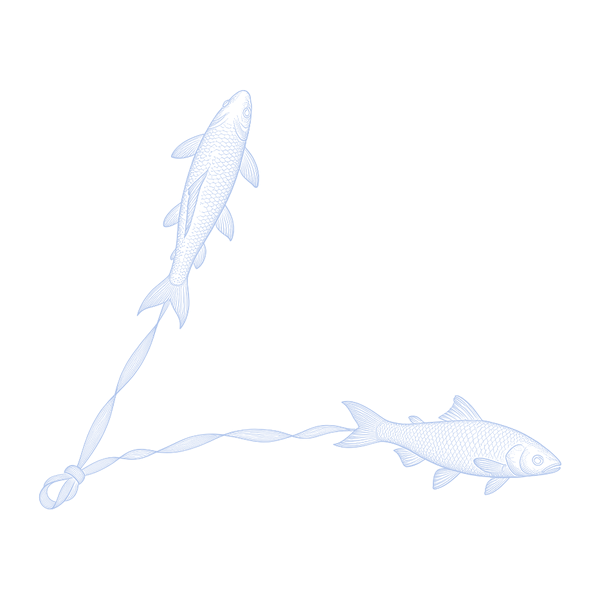
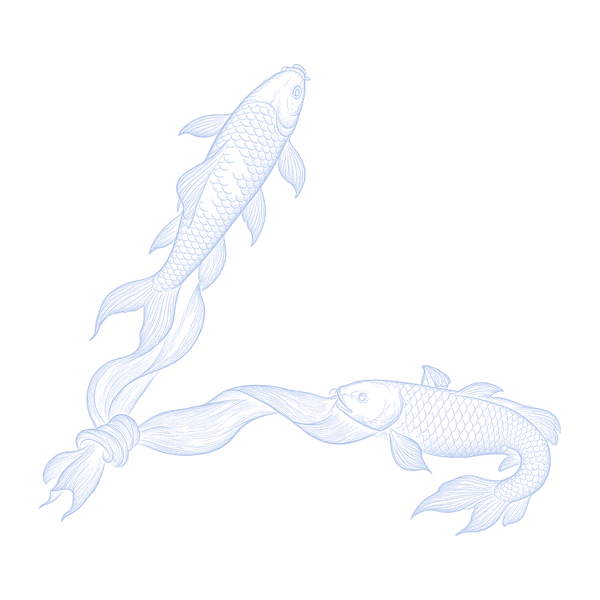
Aggiorna cielo-nascita/cielo-A7.html (A7b: Toro e Pesci rifatti, corna su Elnath e zeta Tau, pesci piu grandi sulla catena reale; altre 10 figure invariate)

Changed region(s): [[0.06, 0.09, 0.93, 0.9]]

diff --git a/cielo-nascita/cielo-A7.html b/cielo-nascita/cielo-A7.html
@@ -2615,7 +2615,7 @@ Vedi tutto
 <a class="c2-again" href="#cielo"><svg aria-hidden="true" focusable="false" class="ci" fill="currentColor" xmlns="http://www.w3.org/2000/svg" viewBox="0 -960 960 960"><path d="M450-180v-485.08L222.15-437.23 180-480l300-300 300 300-42.15 42.77L510-665.08V-180h-60Z"/></svg>Cambia data</a></div>
 </div>
 </div>
-</section><script>(()=>{const DATA={"mesi": ["gennaio", "febbraio", "marzo", "aprile", "maggio", "giugno", "luglio", "agosto", "settembre", "ottobre", "novembre", "dicembre"], "max": [31, 29, 31, 30, 31, 30, 31, 31, 30, 31, 30, 31], "m": [{"s": "Granato", "note": "Il granato è nel bracciale; accanto, il diaspro rosso, dello stesso colore.", "st": {"h": "pietre-burattate-diaspro-rosso", "name": "Diaspro rosso burattato", "price": 450, "img": "https://cdn.shopify.com/s/files/1/0917/9719/3042/files/IMG-7132.jpg?v=1788862069&width=480"}, "j": {"h": "bracciale-granato-quarzo-rosa-cuore", "name": "Bracciale con granato", "price": 1590, "img": "https://cdn.shopify.com/s/files/1/0917/9719/3042/files/Braccialetto_Granato_e_Quarzo_Rosa_con_Ciondolo_Cuore.jpg?v=1768234394&width=480"}}, {"s": "Ametista", "note": "", "st": {"h": "pietre-burattate-ametista-1", "name": "Ametista burattata", "price": 600, "img": "https://cdn.shopify.com/s/files/1/0917/9719/3042/files/E8991915-B2F1-49F5-AD6D-E8A4796B5674.jpg?v=1788862194&width=480"}, "j": {"h": "bracciale-ametista-naturale", "name": "Bracciale con ametista", "price": 1390, "img": "https://cdn.shopify.com/s/files/1/0917/9719/3042/files/43782749287.jpg?v=1745532005&width=480"}}, {"s": "Acquamarina", "note": "", "st": {"h": "acquamarina", "name": "Acquamarina grezza", "price": 750, "img": "https://cdn.shopify.com/s/files/1/0917/9719/3042/files/IMG_9830.jpg?v=1794647398&width=480"}, "j": {"h": "ciondolo-in-acquamarina-grezza", "name": "Ciondolo acquamarina", "price": 1050, "img": "https://cdn.shopify.com/s/files/1/0917/9719/3042/files/ciondoloinacquamarinagrezza.jpg?v=1774884303&width=480"}}, {"s": "Diamante", "note": "Ad aprile la tradizione affianca al diamante il cristallo di rocca.", "st": {"h": "pietre-burattate-cristallo-di-rocca", "name": "Cristallo burattato", "price": 450, "img": "https://cdn.shopify.com/s/files/1/0917/9719/3042/files/DB4ED829-B8B2-47A0-AA12-6D8EE8557FD3.jpg?v=1788861895&width=480"}, "j": {"h": "ciondolo-cristallo-di-rocca-grezzo", "name": "Ciondolo cristallo grezzo", "price": 1050, "img": "https://cdn.shopify.com/s/files/1/0917/9719/3042/files/IMG-2047.jpg?v=1756159765&width=480"}}, {"s": "Smeraldo", "note": "Lo smeraldo è nel ciondolo; accanto, l’avventurina verde.", "st": {"h": "pietre-burattate-avventurina", "name": "Avventurina burattata", "price": 550, "img": "https://cdn.shopify.com/s/files/1/0917/9719/3042/files/IMG-7113.jpg?v=1788793965&width=480"}, "j": {"h": "ciondolo-di-smeraldo-forato", "name": "Ciondolo con smeraldo", "price": 850, "img": "https://cdn.shopify.com/s/files/1/0917/9719/3042/files/CiondolodiSmeraldoforato.jpg?v=1787842694&width=480"}}, {"s": "Perla", "note": "A giugno la tradizione affianca alla perla la pietra di luna.", "st": {"h": "pietra-di-luna-arcobaleno-4-varianti-1", "name": "Pietra di luna arcobaleno", "price": 750, "img": "https://cdn.shopify.com/s/files/1/0917/9719/3042/files/IMG-9834.jpg?v=1794647145&width=480"}, "j": {"h": "braccialetto-pierre-de-lune-blanche", "name": "Bracciale pietra di luna", "price": 1790, "img": "https://cdn.shopify.com/s/files/1/0917/9719/3042/files/FullSizeRender_fd7ccc5c-9ca2-4b72-9071-e6c792b285d0.jpg?v=1773057115&width=480"}}, {"s": "Rubino", "note": "A luglio la tradizione affianca al rubino la corniola.", "st": {"h": "pietre-burattate-corniola", "name": "Corniola burattata", "price": 400, "img": "https://cdn.shopify.com/s/files/1/0917/9719/3042/files/2E89BBA4-E316-4303-B9B9-6043E4D3A820.jpg?v=1788861841&width=480"}, "j": {"h": "braccialetto-con-perle-di-rubino-zoisite", "name": "Bracciale rubino zoisite", "price": 1590, "img": "https://cdn.shopify.com/s/files/1/0917/9719/3042/files/BraccialettoconperlediRubinoZoisite.jpg?v=1783352505&width=480"}}, {"s": "Peridoto", "note": "Nel corredo giada e prehnite, scelte per il verde del peridoto.", "st": {"h": "giada", "name": "Giada grezza", "price": 700, "img": "https://cdn.shopify.com/s/files/1/0917/9719/3042/files/IMG_9826.jpg?v=1794647275&width=480"}, "j": {"h": "braccialetto-prehnite", "name": "Bracciale con prehnite", "price": 1790, "img": "https://cdn.shopify.com/s/files/1/0917/9719/3042/files/FullSizeRender_01ebff7d-15f5-481b-81e1-aa0d47e13556.jpg?v=1786368688&width=480"}}, {"s": "Zaffiro", "note": "Nel corredo la sodalite, scelta per il blu dello zaffiro.", "st": {"h": "pietre-burattate-sodalite", "name": "Sodalite burattata", "price": 700, "img": "https://cdn.shopify.com/s/files/1/0917/9719/3042/files/EDFEFFAF-539B-4D46-8372-2D7EF9ECE5F4.jpg?v=1788862003&width=480"}, "j": {"h": "ciondolo-sodalite-grezza", "name": "Ciondolo sodalite grezza", "price": 850, "img": "https://cdn.shopify.com/s/files/1/0917/9719/3042/files/IMG-2054.jpg?v=1756159873&width=480"}}, {"s": "Opale", "note": "", "st": {"h": "opale-blu", "name": "Opale blu grezzo", "price": 700, "img": "https://cdn.shopify.com/s/files/1/0917/9719/3042/files/IMG_9827.jpg?v=1794647351&width=480"}, "j": {"h": "braccialetto-oplae-jaune", "name": "Bracciale opale giallo", "price": 1690, "img": "https://cdn.shopify.com/s/files/1/0917/9719/3042/files/225712CC-2208-4DF9-B114-F2D22DF684CB.jpg?v=1786178956&width=480"}}, {"s": "Topazio", "note": "A novembre la tradizione affianca al topazio il citrino.", "st": {"h": "pietre-burattate-quarzo-citrino", "name": "Citrino burattato", "price": 400, "img": "https://cdn.shopify.com/s/files/1/0917/9719/3042/files/IMG-7116.jpg?v=1788794125&width=480"}, "j": {"h": "braccialetto-citrine-naturelle", "name": "Bracciale con citrino", "price": 1890, "img": "https://cdn.shopify.com/s/files/1/0917/9719/3042/files/FullSizeRender_2ffbee5b-379e-407f-af34-f4df216f180b.jpg?v=1786368916&width=480"}}, {"s": "Turchese", "note": "A dicembre la tradizione affianca al turchese il lapislazzuli.", "st": {"h": "pietre-burattate-lapislazzuli", "name": "Lapislazzuli burattato", "price": 800, "img": "https://cdn.shopify.com/s/files/1/0917/9719/3042/files/CCB44D8E-7615-4125-BB20-7C757724D971.jpg?v=1788794183&width=480"}, "j": {"h": "ciondolo-a-cuore-in-lapislazzuli", "name": "Cuore in lapislazzuli", "price": 1050, "img": "https://cdn.shopify.com/s/files/1/0917/9719/3042/files/ciondoloacuoreinlapislazzuli.jpg?v=1783354918&width=480"}}], "el": {"fuoco": {"g": "🜂", "per": "Per il fuoco", "p": {"h": "stamford-premium-bastoncini-di-incenso-incenso-e-mirra", "name": "Incenso e mirra", "price": 300, "img": "https://cdn.shopify.com/s/files/1/0917/9719/3042/files/72DC644D-ABA0-44C1-A707-1BCFAD80E81F.jpg?v=1744376701&width=480"}}, "terra": {"g": "🜃", "per": "Per la terra", "p": {"h": "bastoncini-incenso-stamford-premium-patchouli", "name": "Incenso al patchouli", "price": 300, "img": "https://cdn.shopify.com/s/files/1/0917/9719/3042/files/8637EFE7-9813-4B3F-8DA5-2701ABAD2F22.jpg?v=1744376751&width=480"}}, "aria": {"g": "🜁", "per": "Per l’aria", "p": {"h": "candela-intenti-purifying-moon", "name": "Candela Purifying Moon", "price": 1890, "img": "https://cdn.shopify.com/s/files/1/0917/9719/3042/files/90CB3C98-3E38-4A8A-8B83-79FF4362E0A0.jpg?v=1768486515&width=480"}}, "acqua": {"g": "🜄", "per": "Per l’acqua", "p": {"h": "candela-intenti-divine-goddess", "name": "Candela Divine Goddess", "price": 1890, "img": "https://cdn.shopify.com/s/files/1/0917/9719/3042/files/E66745DE-96B8-42A8-A948-4D685A83C5C8.jpg?v=1768478953&width=480"}}}, "segni": [{"n": "Capricorno", "m": 12, "d": 22, "el": "terra", "pietre": "granato e rubino", "g": "♑", "fr": "Per la tradizione il Capricorno è la terra di montagna, tenace. Nel suo corredo c’è il patchouli."}, {"n": "Acquario", "m": 1, "d": 20, "el": "aria", "pietre": "ametista e granato", "g": "♒", "fr": "Si dice che l’Acquario sia l’aria che guarda lontano. Per lui, la lavanda con una nota di palo santo."}, {"n": "Pesci", "m": 2, "d": 19, "el": "acqua", "pietre": "acquamarina e ametista", "g": "♓", "fr": "I Pesci chiudono il giro dei segni e, si dice, sono l’acqua che sogna. Per loro, gelsomino e oud."}, {"n": "Ariete", "m": 3, "d": 21, "el": "fuoco", "pietre": "diamante ed eliotropio", "g": "♈", "fr": "Nella tradizione l’Ariete apre il giro dei segni: è il fuoco che parte. Per lui, incenso e mirra."}, {"n": "Toro", "m": 4, "d": 20, "el": "terra", "pietre": "smeraldo e zaffiro", "g": "♉", "fr": "Si dice che il Toro sia la terra che ama le cose buone e lente. Il patchouli, intenso, gli somiglia."}, {"n": "Gemelli", "m": 5, "d": 21, "el": "aria", "pietre": "perla e agata", "g": "♊", "fr": "Nella tradizione i Gemelli sono l’aria che si muove e chiacchiera: per loro, lavanda e palo santo."}, {"n": "Cancro", "m": 6, "d": 21, "el": "acqua", "pietre": "rubino e smeraldo", "g": "♋", "fr": "Per la tradizione il Cancro è il segno della Luna e della casa. Accanto a lui, gelsomino e oud."}, {"n": "Leone", "m": 7, "d": 23, "el": "fuoco", "pietre": "peridoto e onice", "g": "♌", "fr": "Nella tradizione il Leone è il segno del Sole. Al suo fuoco si dà la resina calda di incenso e mirra."}, {"n": "Vergine", "m": 8, "d": 23, "el": "terra", "pietre": "zaffiro e corniola", "g": "♍", "fr": "Si dice che la Vergine sia la terra del raccolto, paziente e precisa. Per lei, un profumo di patchouli."}, {"n": "Bilancia", "m": 9, "d": 23, "el": "aria", "pietre": "opale e crisolito", "g": "♎", "fr": "C’è chi vede nella Bilancia l’aria che cerca equilibrio. Per lei, la candela a lavanda e palo santo."}, {"n": "Scorpione", "m": 10, "d": 23, "el": "acqua", "pietre": "topazio e berillo", "g": "♏", "fr": "Si dice che lo Scorpione sia l’acqua profonda, quella che non si vede. Per lui, l’oud con il gelsomino."}, {"n": "Sagittario", "m": 11, "d": 22, "el": "fuoco", "pietre": "turchese e topazio", "g": "♐", "fr": "Nella tradizione il Sagittario è il fuoco che viaggia lontano. Con lui, incenso e mirra."}], "bl": {"1|Capricorno": "Il granato è nel bracciale, insieme al diaspro rosso dello stesso colore. Per la tradizione il Capricorno è la terra di montagna, tenace: a lui il patchouli.", "1|Acquario": "Il granato è nel bracciale, insieme al diaspro rosso dello stesso colore. Si dice che l’Acquario sia l’aria che guarda lontano: per lui lavanda e palo santo.", "2|Acquario": "Si dice che l’Acquario sia l’aria che guarda lontano. Per lui, la lavanda con una nota di palo santo.", "2|Pesci": "I Pesci chiudono il giro dei segni e, si dice, sono l’acqua che sogna. Per loro, gelsomino e oud.", "3|Pesci": "I Pesci chiudono il giro dei segni e, si dice, sono l’acqua che sogna. Per loro, gelsomino e oud.", "3|Ariete": "Nella tradizione l’Ariete apre il giro dei segni: è il fuoco che parte. Per lui, incenso e mirra.", "4|Ariete": "Ad aprile la tradizione affianca al diamante il cristallo di rocca, e all’Ariete, fuoco che apre il giro dei segni, incenso e mirra.", "4|Toro": "Ad aprile la tradizione affianca al diamante il cristallo di rocca, e al Toro, terra che ama le cose buone e lente, il patchouli.", "5|Toro": "Lo smeraldo è nel ciondolo, insieme all’avventurina verde. Si dice che il Toro sia la terra che ama le cose buone e lente: il patchouli, intenso, gli somiglia.", "5|Gemelli": "Lo smeraldo è nel ciondolo, insieme all’avventurina verde. Nella tradizione i Gemelli sono l’aria che si muove e chiacchiera: per loro, lavanda e palo santo.", "6|Gemelli": "A giugno la tradizione affianca alla perla la pietra di luna, e ai Gemelli, aria che si muove e chiacchiera, lavanda e palo santo.", "6|Cancro": "A giugno la tradizione affianca alla perla la pietra di luna, e al Cancro, segno della Luna e della casa, gelsomino e oud.", "7|Cancro": "A luglio la tradizione affianca al rubino la corniola, e al Cancro, segno della Luna e della casa, gelsomino e oud.", "7|Leone": "A luglio la tradizione affianca al rubino la corniola, e al Leone, segno del Sole, la resina calda di incenso e mirra.", "8|Leone": "Nel corredo giada e prehnite, scelte per il verde del peridoto. Nella tradizione il Leone è il segno del Sole: al suo fuoco si dà la resina calda di incenso e mirra.", "8|Vergine": "Nel corredo giada e prehnite, scelte per il verde del peridoto. Si dice che la Vergine sia la terra del raccolto, paziente e precisa: per lei, il patchouli.", "9|Vergine": "Nel corredo la sodalite, scelta per il blu dello zaffiro. Si dice che la Vergine sia la terra del raccolto, paziente e precisa: per lei, il patchouli.", "9|Bilancia": "Nel corredo la sodalite, scelta per il blu dello zaffiro. C’è chi vede nella Bilancia l’aria che cerca equilibrio: per lei, la candela a lavanda e palo santo.", "10|Bilancia": "C’è chi vede nella Bilancia l’aria che cerca equilibrio. Per lei, la candela a lavanda e palo santo.", "10|Scorpione": "Si dice che lo Scorpione sia l’acqua profonda, quella che non si vede. Per lui, l’oud con il gelsomino.", "11|Scorpione": "A novembre la tradizione affianca al topazio il citrino, e allo Scorpione, acqua profonda che non si vede, l’oud con il gelsomino.", "11|Sagittario": "A novembre la tradizione affianca al topazio il citrino, e al Sagittario, fuoco che viaggia lontano, incenso e mirra.", "12|Sagittario": "A dicembre la tradizione affianca al turchese il lapislazzuli, e al Sagittario, fuoco che viaggia lontano, incenso e mirra.", "12|Capricorno": "A dicembre la tradizione affianca al turchese il lapislazzuli, e al Capricorno, terra di montagna e tenace, il patchouli."}, "ln": {"Ariete": {"l": [[[70.2, 349.0], [456.7, 371.4]], [[456.7, 371.4], [592.1, 424.7]], [[592.1, 424.7], [621.8, 473.3]]], "s": [[621.8, 473.3, 1], [592.1, 424.7, 2], [456.7, 371.4, 2], [70.2, 349.0, 1]]}, "Toro": {"l": [[[149.5, 54.0], [258.4, 200.3]], [[258.4, 200.3], [283.7, 271.9]], [[244.3, 301.2], [60.2, 143.4]], [[295.7, 334.3], [294.6, 302.6]], [[295.7, 334.3], [348.0, 403.7]], [[348.0, 403.7], [467.4, 500.4]], [[244.3, 301.2], [283.7, 271.9]], [[244.3, 301.2], [266.0, 319.7]], [[266.0, 319.7], [295.7, 334.3]], [[283.7, 271.9], [287.8, 293.9]], [[287.8, 293.9], [294.6, 302.6]], [[294.6, 302.6], [442.4, 244.9]]], "s": [[467.4, 500.4, 1], [442.4, 244.9, 1], [348.0, 403.7, 1], [295.7, 334.3, 1], [294.6, 302.6, 1], [287.8, 293.9, 1], [283.7, 271.9, 1], [266.0, 319.7, 1], [244.3, 301.2, 3], [258.4, 200.3, 1], [149.5, 54.0, 3], [60.2, 143.4, 2]]}, "Gemelli": {"l": [[[389.9, 408.5], [325.4, 323.2]], [[325.4, 323.2], [283.3, 285.6]], [[283.3, 285.6], [260.9, 360.0]], [[260.9, 360.0], [349.3, 448.4]], [[283.3, 285.6], [263.0, 201.6]], [[263.0, 201.6], [223.2, 222.7]], [[263.0, 201.6], [242.2, 174.2]], [[263.0, 201.6], [297.8, 202.6]], [[297.8, 202.6], [352.7, 187.3]], [[352.7, 187.3], [295.3, 137.6]], [[352.7, 187.3], [422.9, 156.2]], [[352.7, 187.3], [408.5, 284.0]], [[408.5, 284.0], [434.3, 365.4]], [[408.5, 284.0], [462.8, 339.7]], [[462.8, 339.7], [488.8, 347.3]], [[488.8, 347.3], [526.7, 346.1]]], "s": [[526.7, 346.1, 1], [488.8, 347.3, 1], [462.8, 339.7, 2], [434.3, 365.4, 1], [389.9, 408.5, 2], [408.5, 284.0, 2], [349.3, 448.4, 1], [422.9, 156.2, 1], [325.4, 323.2, 1], [352.7, 187.3, 1], [260.9, 360.0, 1], [283.3, 285.6, 1], [297.8, 202.6, 1], [295.3, 137.6, 3], [263.0, 201.6, 1], [223.2, 222.7, 1], [242.2, 174.2, 3]]}, "Cancro": {"l": [[[259.8, 115.0], [300.1, 306.0]], [[300.1, 306.0], [420.2, 136.9]], [[300.1, 306.0], [300.6, 393.7]], [[300.6, 393.7], [510.4, 609.5]], [[300.6, 393.7], [228.4, 568.8]]], "s": [[510.4, 609.5, 1], [420.2, 136.9, 1], [300.1, 306.0, 1], [300.6, 393.7, 1], [259.8, 115.0, 1], [228.4, 568.8, 1]]}, "Leone": {"l": [[[135.0, 367.8], [270.4, 370.7]], [[270.4, 370.7], [508.8, 438.6]], [[508.8, 438.6], [514.0, 365.9]], [[514.0, 365.9], [469.9, 318.4]], [[469.9, 318.4], [279.7, 293.8]], [[279.7, 293.8], [135.0, 367.8]], [[469.9, 318.4], [483.1, 265.1]], [[483.1, 265.1], [566.4, 226.0]], [[566.4, 226.0], [591.1, 259.6]], [[279.7, 293.8], [270.4, 370.7]]], "s": [[591.1, 259.6, 2], [566.4, 226.0, 1], [514.0, 365.9, 1], [508.8, 438.6, 3], [483.1, 265.1, 1], [469.9, 318.4, 2], [279.7, 293.8, 2], [270.4, 370.7, 1], [135.0, 367.8, 2]]}, "Vergine": {"l": [[[658.3, 229.1], [551.9, 339.6]], [[551.9, 339.6], [483.6, 357.7]], [[483.6, 357.7], [366.4, 491.3]], [[366.4, 491.3], [221.6, 500.8]], [[221.6, 500.8], [205.2, 449.4]], [[205.2, 449.4], [118.2, 458.4]], [[366.4, 491.3], [322.0, 367.3]], [[322.0, 367.3], [237.5, 351.8]], [[237.5, 351.8], [95.0, 364.3]], [[322.0, 367.3], [433.4, 304.3]], [[433.4, 304.3], [401.9, 214.0]], [[433.4, 304.3], [483.6, 357.7]]], "s": [[658.3, 229.1, 1], [551.9, 339.6, 1], [483.6, 357.7, 2], [433.4, 304.3, 1], [401.9, 214.0, 2], [366.4, 491.3, 3], [322.0, 367.3, 1], [237.5, 351.8, 1], [221.6, 500.8, 1], [205.2, 449.4, 1], [118.2, 458.4, 1], [95.0, 364.3, 1]]}, "Bilancia": {"l": [[[143.9, 305.5], [261.5, 254.5]], [[261.5, 254.5], [385.3, 114.1]], [[385.3, 114.1], [545.0, 299.8]], [[545.0, 299.8], [447.5, 540.5]], [[447.5, 540.5], [261.5, 254.5]]], "s": [[545.0, 299.8, 2], [447.5, 540.5, 1], [385.3, 114.1, 2], [261.5, 254.5, 1], [143.9, 305.5, 1]]}, "Scorpione": {"l": [[[115.3, 495.2], [72.8, 543.7]], [[72.8, 543.7], [49.2, 572.2]], [[49.2, 572.2], [99.6, 641.0]], [[99.6, 641.0], [213.2, 646.4]], [[213.2, 646.4], [295.9, 629.9]], [[295.9, 629.9], [315.5, 526.0]], [[315.5, 526.0], [332.5, 436.6]], [[332.5, 436.6], [422.9, 298.9]], [[422.9, 298.9], [463.9, 260.3]], [[463.9, 260.3], [644.4, 193.1]], [[463.9, 260.3], [633.0, 281.2]], [[463.9, 260.3], [630.1, 116.4]]], "s": [[633.0, 281.2, 2], [644.4, 193.1, 2], [630.1, 116.4, 2], [463.9, 260.3, 3], [422.9, 298.9, 2], [332.5, 436.6, 2], [315.5, 526.0, 2], [295.9, 629.9, 1], [213.2, 646.4, 1], [115.3, 495.2, 3], [99.6, 641.0, 2], [72.8, 543.7, 2], [49.2, 572.2, 2]]}, "Sagittario": {"l": [[[561.7, 244.8], [527.9, 197.0]], [[593.4, 326.9], [568.9, 302.2]], [[568.9, 302.2], [604.3, 241.6]], [[604.3, 241.6], [648.2, 197.8]], [[604.3, 241.6], [561.7, 244.8]], [[561.7, 244.8], [568.9, 302.2]], [[568.9, 302.2], [454.8, 280.2]], [[454.8, 280.2], [486.5, 230.9]], [[486.5, 230.9], [561.7, 244.8]], [[486.5, 230.9], [527.9, 197.0]], [[527.9, 197.0], [553.1, 131.9]], [[454.8, 280.2], [434.0, 258.7]], [[434.0, 258.7], [458.4, 231.5]], [[458.4, 231.5], [486.5, 230.9]], [[458.4, 231.5], [429.7, 172.6]], [[429.7, 172.6], [413.4, 187.1]], [[413.4, 187.1], [364.7, 167.9]], [[364.7, 167.9], [347.8, 159.2]], [[434.0, 258.7], [344.0, 256.1]], [[344.0, 256.1], [291.4, 323.6]], [[291.4, 323.6], [343.9, 405.4]], [[343.9, 405.4], [393.5, 475.9]], [[393.5, 475.9], [454.9, 426.2]], [[393.5, 475.9], [478.0, 476.3]]], "s": [[648.2, 197.8, 1], [604.3, 241.6, 2], [553.1, 131.9, 1], [593.4, 326.9, 2], [561.7, 244.8, 2], [568.9, 302.2, 2], [527.9, 197.0, 2], [486.5, 230.9, 1], [458.4, 231.5, 2], [429.7, 172.6, 1], [454.8, 280.2, 2], [413.4, 187.1, 1], [434.0, 258.7, 1], [364.7, 167.9, 1], [347.8, 159.2, 1], [478.0, 476.3, 1], [454.9, 426.2, 1], [344.0, 256.1, 1], [393.5, 475.9, 1], [343.9, 405.4, 1], [291.4, 323.6, 1]]}, "Capricorno": {"l": [[[621.5, 219.0], [619.9, 275.5]], [[619.9, 275.5], [396.6, 411.5]], [[396.6, 411.5], [308.2, 435.0]], [[308.2, 435.0], [212.9, 469.0]], [[212.9, 469.0], [171.1, 472.7]], [[308.2, 435.0], [333.6, 565.4]], [[333.6, 565.4], [396.6, 411.5]], [[619.9, 275.5], [561.0, 553.4]], [[396.6, 411.5], [544.7, 600.0]]], "s": [[621.5, 219.0, 1], [619.9, 275.5, 2], [561.0, 553.4, 1], [544.7, 600.0, 1], [396.6, 411.5, 1], [308.2, 435.0, 1], [333.6, 565.4, 1], [212.9, 469.0, 1], [171.1, 472.7, 2]]}, "Acquario": {"l": [[[477.8, 286.2], [335.9, 237.5]], [[335.9, 237.5], [282.2, 266.4]], [[282.2, 266.4], [251.9, 252.7]], [[251.9, 252.7], [228.8, 259.6]], [[228.8, 259.6], [193.7, 381.2]], [[193.7, 381.2], [116.2, 424.4]], [[116.2, 424.4], [134.9, 592.1]], [[335.9, 237.5], [320.3, 354.0]], [[320.3, 354.0], [376.2, 432.8]], [[320.3, 354.0], [281.5, 406.3]], [[281.5, 406.3], [225.8, 464.0]], [[225.8, 464.0], [216.5, 500.5]], [[216.5, 500.5], [186.0, 593.4]], [[664.2, 313.1], [477.8, 286.2]]], "s": [[664.2, 313.1, 1], [477.8, 286.2, 2], [335.9, 237.5, 2], [376.2, 432.8, 1], [320.3, 354.0, 1], [282.2, 266.4, 1], [251.9, 252.7, 1], [281.5, 406.3, 1], [228.8, 259.6, 1], [225.8, 464.0, 1], [193.7, 381.2, 1], [216.5, 500.5, 1], [186.0, 593.4, 1], [116.2, 424.4, 1], [134.9, 592.1, 1]]}, "Pesci": {"l": [[[248.5, 189.5], [219.5, 296.0]], [[248.5, 189.5], [200.0, 257.4]], [[200.0, 257.4], [219.5, 296.0]], [[219.5, 296.0], [166.4, 423.7]], [[166.4, 423.7], [120.8, 508.2]], [[120.8, 508.2], [61.8, 598.7]], [[61.8, 598.7], [92.9, 591.4]], [[92.9, 591.4], [135.5, 557.9]], [[135.5, 557.9], [174.0, 547.4]], [[174.0, 547.4], [264.0, 520.1]], [[264.0, 520.1], [312.4, 525.2]], [[312.4, 525.2], [402.1, 507.4]], [[402.1, 507.4], [474.7, 519.2]], [[474.7, 519.2], [543.6, 530.2]], [[543.6, 530.2], [542.0, 583.8]], [[542.0, 583.8], [598.2, 587.3]], [[598.2, 587.3], [631.6, 555.6]], [[631.6, 555.6], [585.6, 515.6]], [[585.6, 515.6], [543.6, 530.2]]], "s": [[402.1, 507.4, 1], [312.4, 525.2, 1], [248.5, 189.5, 1], [264.0, 520.1, 1], [219.5, 296.0, 1], [200.0, 257.4, 1], [174.0, 547.4, 1], [166.4, 423.7, 1], [135.5, 557.9, 1], [120.8, 508.2, 1], [92.9, 591.4, 1], [61.8, 598.7, 1], [631.6, 555.6, 1], [598.2, 587.3, 1], [585.6, 515.6, 1], [543.6, 530.2, 1], [542.0, 583.8, 1], [474.7, 519.2, 1]]}}};
+</section><script>(()=>{const DATA={"mesi": ["gennaio", "febbraio", "marzo", "aprile", "maggio", "giugno", "luglio", "agosto", "settembre", "ottobre", "novembre", "dicembre"], "max": [31, 29, 31, 30, 31, 30, 31, 31, 30, 31, 30, 31], "m": [{"s": "Granato", "note": "Il granato è nel bracciale; accanto, il diaspro rosso, dello stesso colore.", "st": {"h": "pietre-burattate-diaspro-rosso", "name": "Diaspro rosso burattato", "price": 450, "img": "https://cdn.shopify.com/s/files/1/0917/9719/3042/files/IMG-7132.jpg?v=1788862069&width=480"}, "j": {"h": "bracciale-granato-quarzo-rosa-cuore", "name": "Bracciale con granato", "price": 1590, "img": "https://cdn.shopify.com/s/files/1/0917/9719/3042/files/Braccialetto_Granato_e_Quarzo_Rosa_con_Ciondolo_Cuore.jpg?v=1768234394&width=480"}}, {"s": "Ametista", "note": "", "st": {"h": "pietre-burattate-ametista-1", "name": "Ametista burattata", "price": 600, "img": "https://cdn.shopify.com/s/files/1/0917/9719/3042/files/E8991915-B2F1-49F5-AD6D-E8A4796B5674.jpg?v=1788862194&width=480"}, "j": {"h": "bracciale-ametista-naturale", "name": "Bracciale con ametista", "price": 1390, "img": "https://cdn.shopify.com/s/files/1/0917/9719/3042/files/43782749287.jpg?v=1745532005&width=480"}}, {"s": "Acquamarina", "note": "", "st": {"h": "acquamarina", "name": "Acquamarina grezza", "price": 750, "img": "https://cdn.shopify.com/s/files/1/0917/9719/3042/files/IMG_9830.jpg?v=1794647398&width=480"}, "j": {"h": "ciondolo-in-acquamarina-grezza", "name": "Ciondolo acquamarina", "price": 1050, "img": "https://cdn.shopify.com/s/files/1/0917/9719/3042/files/ciondoloinacquamarinagrezza.jpg?v=1774884303&width=480"}}, {"s": "Diamante", "note": "Ad aprile la tradizione affianca al diamante il cristallo di rocca.", "st": {"h": "pietre-burattate-cristallo-di-rocca", "name": "Cristallo burattato", "price": 450, "img": "https://cdn.shopify.com/s/files/1/0917/9719/3042/files/DB4ED829-B8B2-47A0-AA12-6D8EE8557FD3.jpg?v=1788861895&width=480"}, "j": {"h": "ciondolo-cristallo-di-rocca-grezzo", "name": "Ciondolo cristallo grezzo", "price": 1050, "img": "https://cdn.shopify.com/s/files/1/0917/9719/3042/files/IMG-2047.jpg?v=1756159765&width=480"}}, {"s": "Smeraldo", "note": "Lo smeraldo è nel ciondolo; accanto, l’avventurina verde.", "st": {"h": "pietre-burattate-avventurina", "name": "Avventurina burattata", "price": 550, "img": "https://cdn.shopify.com/s/files/1/0917/9719/3042/files/IMG-7113.jpg?v=1788793965&width=480"}, "j": {"h": "ciondolo-di-smeraldo-forato", "name": "Ciondolo con smeraldo", "price": 850, "img": "https://cdn.shopify.com/s/files/1/0917/9719/3042/files/CiondolodiSmeraldoforato.jpg?v=1787842694&width=480"}}, {"s": "Perla", "note": "A giugno la tradizione affianca alla perla la pietra di luna.", "st": {"h": "pietra-di-luna-arcobaleno-4-varianti-1", "name": "Pietra di luna arcobaleno", "price": 750, "img": "https://cdn.shopify.com/s/files/1/0917/9719/3042/files/IMG-9834.jpg?v=1794647145&width=480"}, "j": {"h": "braccialetto-pierre-de-lune-blanche", "name": "Bracciale pietra di luna", "price": 1790, "img": "https://cdn.shopify.com/s/files/1/0917/9719/3042/files/FullSizeRender_fd7ccc5c-9ca2-4b72-9071-e6c792b285d0.jpg?v=1773057115&width=480"}}, {"s": "Rubino", "note": "A luglio la tradizione affianca al rubino la corniola.", "st": {"h": "pietre-burattate-corniola", "name": "Corniola burattata", "price": 400, "img": "https://cdn.shopify.com/s/files/1/0917/9719/3042/files/2E89BBA4-E316-4303-B9B9-6043E4D3A820.jpg?v=1788861841&width=480"}, "j": {"h": "braccialetto-con-perle-di-rubino-zoisite", "name": "Bracciale rubino zoisite", "price": 1590, "img": "https://cdn.shopify.com/s/files/1/0917/9719/3042/files/BraccialettoconperlediRubinoZoisite.jpg?v=1783352505&width=480"}}, {"s": "Peridoto", "note": "Nel corredo giada e prehnite, scelte per il verde del peridoto.", "st": {"h": "giada", "name": "Giada grezza", "price": 700, "img": "https://cdn.shopify.com/s/files/1/0917/9719/3042/files/IMG_9826.jpg?v=1794647275&width=480"}, "j": {"h": "braccialetto-prehnite", "name": "Bracciale con prehnite", "price": 1790, "img": "https://cdn.shopify.com/s/files/1/0917/9719/3042/files/FullSizeRender_01ebff7d-15f5-481b-81e1-aa0d47e13556.jpg?v=1786368688&width=480"}}, {"s": "Zaffiro", "note": "Nel corredo la sodalite, scelta per il blu dello zaffiro.", "st": {"h": "pietre-burattate-sodalite", "name": "Sodalite burattata", "price": 700, "img": "https://cdn.shopify.com/s/files/1/0917/9719/3042/files/EDFEFFAF-539B-4D46-8372-2D7EF9ECE5F4.jpg?v=1788862003&width=480"}, "j": {"h": "ciondolo-sodalite-grezza", "name": "Ciondolo sodalite grezza", "price": 850, "img": "https://cdn.shopify.com/s/files/1/0917/9719/3042/files/IMG-2054.jpg?v=1756159873&width=480"}}, {"s": "Opale", "note": "", "st": {"h": "opale-blu", "name": "Opale blu grezzo", "price": 700, "img": "https://cdn.shopify.com/s/files/1/0917/9719/3042/files/IMG_9827.jpg?v=1794647351&width=480"}, "j": {"h": "braccialetto-oplae-jaune", "name": "Bracciale opale giallo", "price": 1690, "img": "https://cdn.shopify.com/s/files/1/0917/9719/3042/files/225712CC-2208-4DF9-B114-F2D22DF684CB.jpg?v=1786178956&width=480"}}, {"s": "Topazio", "note": "A novembre la tradizione affianca al topazio il citrino.", "st": {"h": "pietre-burattate-quarzo-citrino", "name": "Citrino burattato", "price": 400, "img": "https://cdn.shopify.com/s/files/1/0917/9719/3042/files/IMG-7116.jpg?v=1788794125&width=480"}, "j": {"h": "braccialetto-citrine-naturelle", "name": "Bracciale con citrino", "price": 1890, "img": "https://cdn.shopify.com/s/files/1/0917/9719/3042/files/FullSizeRender_2ffbee5b-379e-407f-af34-f4df216f180b.jpg?v=1786368916&width=480"}}, {"s": "Turchese", "note": "A dicembre la tradizione affianca al turchese il lapislazzuli.", "st": {"h": "pietre-burattate-lapislazzuli", "name": "Lapislazzuli burattato", "price": 800, "img": "https://cdn.shopify.com/s/files/1/0917/9719/3042/files/CCB44D8E-7615-4125-BB20-7C757724D971.jpg?v=1788794183&width=480"}, "j": {"h": "ciondolo-a-cuore-in-lapislazzuli", "name": "Cuore in lapislazzuli", "price": 1050, "img": "https://cdn.shopify.com/s/files/1/0917/9719/3042/files/ciondoloacuoreinlapislazzuli.jpg?v=1783354918&width=480"}}], "el": {"fuoco": {"g": "🜂", "per": "Per il fuoco", "p": {"h": "stamford-premium-bastoncini-di-incenso-incenso-e-mirra", "name": "Incenso e mirra", "price": 300, "img": "https://cdn.shopify.com/s/files/1/0917/9719/3042/files/72DC644D-ABA0-44C1-A707-1BCFAD80E81F.jpg?v=1744376701&width=480"}}, "terra": {"g": "🜃", "per": "Per la terra", "p": {"h": "bastoncini-incenso-stamford-premium-patchouli", "name": "Incenso al patchouli", "price": 300, "img": "https://cdn.shopify.com/s/files/1/0917/9719/3042/files/8637EFE7-9813-4B3F-8DA5-2701ABAD2F22.jpg?v=1744376751&width=480"}}, "aria": {"g": "🜁", "per": "Per l’aria", "p": {"h": "candela-intenti-purifying-moon", "name": "Candela Purifying Moon", "price": 1890, "img": "https://cdn.shopify.com/s/files/1/0917/9719/3042/files/90CB3C98-3E38-4A8A-8B83-79FF4362E0A0.jpg?v=1768486515&width=480"}}, "acqua": {"g": "🜄", "per": "Per l’acqua", "p": {"h": "candela-intenti-divine-goddess", "name": "Candela Divine Goddess", "price": 1890, "img": "https://cdn.shopify.com/s/files/1/0917/9719/3042/files/E66745DE-96B8-42A8-A948-4D685A83C5C8.jpg?v=1768478953&width=480"}}}, "segni": [{"n": "Capricorno", "m": 12, "d": 22, "el": "terra", "pietre": "granato e rubino", "g": "♑", "fr": "Per la tradizione il Capricorno è la terra di montagna, tenace. Nel suo corredo c’è il patchouli."}, {"n": "Acquario", "m": 1, "d": 20, "el": "aria", "pietre": "ametista e granato", "g": "♒", "fr": "Si dice che l’Acquario sia l’aria che guarda lontano. Per lui, la lavanda con una nota di palo santo."}, {"n": "Pesci", "m": 2, "d": 19, "el": "acqua", "pietre": "acquamarina e ametista", "g": "♓", "fr": "I Pesci chiudono il giro dei segni e, si dice, sono l’acqua che sogna. Per loro, gelsomino e oud."}, {"n": "Ariete", "m": 3, "d": 21, "el": "fuoco", "pietre": "diamante ed eliotropio", "g": "♈", "fr": "Nella tradizione l’Ariete apre il giro dei segni: è il fuoco che parte. Per lui, incenso e mirra."}, {"n": "Toro", "m": 4, "d": 20, "el": "terra", "pietre": "smeraldo e zaffiro", "g": "♉", "fr": "Si dice che il Toro sia la terra che ama le cose buone e lente. Il patchouli, intenso, gli somiglia."}, {"n": "Gemelli", "m": 5, "d": 21, "el": "aria", "pietre": "perla e agata", "g": "♊", "fr": "Nella tradizione i Gemelli sono l’aria che si muove e chiacchiera: per loro, lavanda e palo santo."}, {"n": "Cancro", "m": 6, "d": 21, "el": "acqua", "pietre": "rubino e smeraldo", "g": "♋", "fr": "Per la tradizione il Cancro è il segno della Luna e della casa. Accanto a lui, gelsomino e oud."}, {"n": "Leone", "m": 7, "d": 23, "el": "fuoco", "pietre": "peridoto e onice", "g": "♌", "fr": "Nella tradizione il Leone è il segno del Sole. Al suo fuoco si dà la resina calda di incenso e mirra."}, {"n": "Vergine", "m": 8, "d": 23, "el": "terra", "pietre": "zaffiro e corniola", "g": "♍", "fr": "Si dice che la Vergine sia la terra del raccolto, paziente e precisa. Per lei, un profumo di patchouli."}, {"n": "Bilancia", "m": 9, "d": 23, "el": "aria", "pietre": "opale e crisolito", "g": "♎", "fr": "C’è chi vede nella Bilancia l’aria che cerca equilibrio. Per lei, la candela a lavanda e palo santo."}, {"n": "Scorpione", "m": 10, "d": 23, "el": "acqua", "pietre": "topazio e berillo", "g": "♏", "fr": "Si dice che lo Scorpione sia l’acqua profonda, quella che non si vede. Per lui, l’oud con il gelsomino."}, {"n": "Sagittario", "m": 11, "d": 22, "el": "fuoco", "pietre": "turchese e topazio", "g": "♐", "fr": "Nella tradizione il Sagittario è il fuoco che viaggia lontano. Con lui, incenso e mirra."}], "bl": {"1|Capricorno": "Il granato è nel bracciale, insieme al diaspro rosso dello stesso colore. Per la tradizione il Capricorno è la terra di montagna, tenace: a lui il patchouli.", "1|Acquario": "Il granato è nel bracciale, insieme al diaspro rosso dello stesso colore. Si dice che l’Acquario sia l’aria che guarda lontano: per lui lavanda e palo santo.", "2|Acquario": "Si dice che l’Acquario sia l’aria che guarda lontano. Per lui, la lavanda con una nota di palo santo.", "2|Pesci": "I Pesci chiudono il giro dei segni e, si dice, sono l’acqua che sogna. Per loro, gelsomino e oud.", "3|Pesci": "I Pesci chiudono il giro dei segni e, si dice, sono l’acqua che sogna. Per loro, gelsomino e oud.", "3|Ariete": "Nella tradizione l’Ariete apre il giro dei segni: è il fuoco che parte. Per lui, incenso e mirra.", "4|Ariete": "Ad aprile la tradizione affianca al diamante il cristallo di rocca, e all’Ariete, fuoco che apre il giro dei segni, incenso e mirra.", "4|Toro": "Ad aprile la tradizione affianca al diamante il cristallo di rocca, e al Toro, terra che ama le cose buone e lente, il patchouli.", "5|Toro": "Lo smeraldo è nel ciondolo, insieme all’avventurina verde. Si dice che il Toro sia la terra che ama le cose buone e lente: il patchouli, intenso, gli somiglia.", "5|Gemelli": "Lo smeraldo è nel ciondolo, insieme all’avventurina verde. Nella tradizione i Gemelli sono l’aria che si muove e chiacchiera: per loro, lavanda e palo santo.", "6|Gemelli": "A giugno la tradizione affianca alla perla la pietra di luna, e ai Gemelli, aria che si muove e chiacchiera, lavanda e palo santo.", "6|Cancro": "A giugno la tradizione affianca alla perla la pietra di luna, e al Cancro, segno della Luna e della casa, gelsomino e oud.", "7|Cancro": "A luglio la tradizione affianca al rubino la corniola, e al Cancro, segno della Luna e della casa, gelsomino e oud.", "7|Leone": "A luglio la tradizione affianca al rubino la corniola, e al Leone, segno del Sole, la resina calda di incenso e mirra.", "8|Leone": "Nel corredo giada e prehnite, scelte per il verde del peridoto. Nella tradizione il Leone è il segno del Sole: al suo fuoco si dà la resina calda di incenso e mirra.", "8|Vergine": "Nel corredo giada e prehnite, scelte per il verde del peridoto. Si dice che la Vergine sia la terra del raccolto, paziente e precisa: per lei, il patchouli.", "9|Vergine": "Nel corredo la sodalite, scelta per il blu dello zaffiro. Si dice che la Vergine sia la terra del raccolto, paziente e precisa: per lei, il patchouli.", "9|Bilancia": "Nel corredo la sodalite, scelta per il blu dello zaffiro. C’è chi vede nella Bilancia l’aria che cerca equilibrio: per lei, la candela a lavanda e palo santo.", "10|Bilancia": "C’è chi vede nella Bilancia l’aria che cerca equilibrio. Per lei, la candela a lavanda e palo santo.", "10|Scorpione": "Si dice che lo Scorpione sia l’acqua profonda, quella che non si vede. Per lui, l’oud con il gelsomino.", "11|Scorpione": "A novembre la tradizione affianca al topazio il citrino, e allo Scorpione, acqua profonda che non si vede, l’oud con il gelsomino.", "11|Sagittario": "A novembre la tradizione affianca al topazio il citrino, e al Sagittario, fuoco che viaggia lontano, incenso e mirra.", "12|Sagittario": "A dicembre la tradizione affianca al turchese il lapislazzuli, e al Sagittario, fuoco che viaggia lontano, incenso e mirra.", "12|Capricorno": "A dicembre la tradizione affianca al turchese il lapislazzuli, e al Capricorno, terra di montagna e tenace, il patchouli."}, "ln": {"Ariete": {"l": [[[70.2, 349.0], [456.7, 371.4]], [[456.7, 371.4], [592.1, 424.7]], [[592.1, 424.7], [621.8, 473.3]]], "s": [[621.8, 473.3, 1], [592.1, 424.7, 2], [456.7, 371.4, 2], [70.2, 349.0, 1]]}, "Toro": {"l": [[[160.6, 127.8], [302.6, 261.1]], [[302.6, 261.1], [342.8, 331.7]], [[307.0, 369.8], [83.5, 238.8]], [[367.2, 394.9], [360.1, 361.9]], [[367.2, 394.9], [435.5, 458.0]], [[435.5, 458.0], [579.4, 537.1]], [[307.0, 369.8], [342.8, 331.7]], [[307.0, 369.8], [333.4, 385.2]], [[333.4, 385.2], [367.2, 394.9]], [[342.8, 331.7], [351.4, 354.0]], [[351.4, 354.0], [360.1, 361.9]], [[360.1, 361.9], [504.7, 273.1]]], "s": [[579.4, 537.1, 1], [504.7, 273.1, 1], [435.5, 458.0, 1], [367.2, 394.9, 1], [360.1, 361.9, 1], [351.4, 354.0, 1], [342.8, 331.7, 1], [333.4, 385.2, 1], [307.0, 369.8, 3], [302.6, 261.1, 1], [160.6, 127.8, 3], [83.5, 238.8, 2]]}, "Gemelli": {"l": [[[389.9, 408.5], [325.4, 323.2]], [[325.4, 323.2], [283.3, 285.6]], [[283.3, 285.6], [260.9, 360.0]], [[260.9, 360.0], [349.3, 448.4]], [[283.3, 285.6], [263.0, 201.6]], [[263.0, 201.6], [223.2, 222.7]], [[263.0, 201.6], [242.2, 174.2]], [[263.0, 201.6], [297.8, 202.6]], [[297.8, 202.6], [352.7, 187.3]], [[352.7, 187.3], [295.3, 137.6]], [[352.7, 187.3], [422.9, 156.2]], [[352.7, 187.3], [408.5, 284.0]], [[408.5, 284.0], [434.3, 365.4]], [[408.5, 284.0], [462.8, 339.7]], [[462.8, 339.7], [488.8, 347.3]], [[488.8, 347.3], [526.7, 346.1]]], "s": [[526.7, 346.1, 1], [488.8, 347.3, 1], [462.8, 339.7, 2], [434.3, 365.4, 1], [389.9, 408.5, 2], [408.5, 284.0, 2], [349.3, 448.4, 1], [422.9, 156.2, 1], [325.4, 323.2, 1], [352.7, 187.3, 1], [260.9, 360.0, 1], [283.3, 285.6, 1], [297.8, 202.6, 1], [295.3, 137.6, 3], [263.0, 201.6, 1], [223.2, 222.7, 1], [242.2, 174.2, 3]]}, "Cancro": {"l": [[[259.8, 115.0], [300.1, 306.0]], [[300.1, 306.0], [420.2, 136.9]], [[300.1, 306.0], [300.6, 393.7]], [[300.6, 393.7], [510.4, 609.5]], [[300.6, 393.7], [228.4, 568.8]]], "s": [[510.4, 609.5, 1], [420.2, 136.9, 1], [300.1, 306.0, 1], [300.6, 393.7, 1], [259.8, 115.0, 1], [228.4, 568.8, 1]]}, "Leone": {"l": [[[135.0, 367.8], [270.4, 370.7]], [[270.4, 370.7], [508.8, 438.6]], [[508.8, 438.6], [514.0, 365.9]], [[514.0, 365.9], [469.9, 318.4]], [[469.9, 318.4], [279.7, 293.8]], [[279.7, 293.8], [135.0, 367.8]], [[469.9, 318.4], [483.1, 265.1]], [[483.1, 265.1], [566.4, 226.0]], [[566.4, 226.0], [591.1, 259.6]], [[279.7, 293.8], [270.4, 370.7]]], "s": [[591.1, 259.6, 2], [566.4, 226.0, 1], [514.0, 365.9, 1], [508.8, 438.6, 3], [483.1, 265.1, 1], [469.9, 318.4, 2], [279.7, 293.8, 2], [270.4, 370.7, 1], [135.0, 367.8, 2]]}, "Vergine": {"l": [[[658.3, 229.1], [551.9, 339.6]], [[551.9, 339.6], [483.6, 357.7]], [[483.6, 357.7], [366.4, 491.3]], [[366.4, 491.3], [221.6, 500.8]], [[221.6, 500.8], [205.2, 449.4]], [[205.2, 449.4], [118.2, 458.4]], [[366.4, 491.3], [322.0, 367.3]], [[322.0, 367.3], [237.5, 351.8]], [[237.5, 351.8], [95.0, 364.3]], [[322.0, 367.3], [433.4, 304.3]], [[433.4, 304.3], [401.9, 214.0]], [[433.4, 304.3], [483.6, 357.7]]], "s": [[658.3, 229.1, 1], [551.9, 339.6, 1], [483.6, 357.7, 2], [433.4, 304.3, 1], [401.9, 214.0, 2], [366.4, 491.3, 3], [322.0, 367.3, 1], [237.5, 351.8, 1], [221.6, 500.8, 1], [205.2, 449.4, 1], [118.2, 458.4, 1], [95.0, 364.3, 1]]}, "Bilancia": {"l": [[[143.9, 305.5], [261.5, 254.5]], [[261.5, 254.5], [385.3, 114.1]], [[385.3, 114.1], [545.0, 299.8]], [[545.0, 299.8], [447.5, 540.5]], [[447.5, 540.5], [261.5, 254.5]]], "s": [[545.0, 299.8, 2], [447.5, 540.5, 1], [385.3, 114.1, 2], [261.5, 254.5, 1], [143.9, 305.5, 1]]}, "Scorpione": {"l": [[[115.3, 495.2], [72.8, 543.7]], [[72.8, 543.7], [49.2, 572.2]], [[49.2, 572.2], [99.6, 641.0]], [[99.6, 641.0], [213.2, 646.4]], [[213.2, 646.4], [295.9, 629.9]], [[295.9, 629.9], [315.5, 526.0]], [[315.5, 526.0], [332.5, 436.6]], [[332.5, 436.6], [422.9, 298.9]], [[422.9, 298.9], [463.9, 260.3]], [[463.9, 260.3], [644.4, 193.1]], [[463.9, 260.3], [633.0, 281.2]], [[463.9, 260.3], [630.1, 116.4]]], "s": [[633.0, 281.2, 2], [644.4, 193.1, 2], [630.1, 116.4, 2], [463.9, 260.3, 3], [422.9, 298.9, 2], [332.5, 436.6, 2], [315.5, 526.0, 2], [295.9, 629.9, 1], [213.2, 646.4, 1], [115.3, 495.2, 3], [99.6, 641.0, 2], [72.8, 543.7, 2], [49.2, 572.2, 2]]}, "Sagittario": {"l": [[[561.7, 244.8], [527.9, 197.0]], [[593.4, 326.9], [568.9, 302.2]], [[568.9, 302.2], [604.3, 241.6]], [[604.3, 241.6], [648.2, 197.8]], [[604.3, 241.6], [561.7, 244.8]], [[561.7, 244.8], [568.9, 302.2]], [[568.9, 302.2], [454.8, 280.2]], [[454.8, 280.2], [486.5, 230.9]], [[486.5, 230.9], [561.7, 244.8]], [[486.5, 230.9], [527.9, 197.0]], [[527.9, 197.0], [553.1, 131.9]], [[454.8, 280.2], [434.0, 258.7]], [[434.0, 258.7], [458.4, 231.5]], [[458.4, 231.5], [486.5, 230.9]], [[458.4, 231.5], [429.7, 172.6]], [[429.7, 172.6], [413.4, 187.1]], [[413.4, 187.1], [364.7, 167.9]], [[364.7, 167.9], [347.8, 159.2]], [[434.0, 258.7], [344.0, 256.1]], [[344.0, 256.1], [291.4, 323.6]], [[291.4, 323.6], [343.9, 405.4]], [[343.9, 405.4], [393.5, 475.9]], [[393.5, 475.9], [454.9, 426.2]], [[393.5, 475.9], [478.0, 476.3]]], "s": [[648.2, 197.8, 1], [604.3, 241.6, 2], [553.1, 131.9, 1], [593.4, 326.9, 2], [561.7, 244.8, 2], [568.9, 302.2, 2], [527.9, 197.0, 2], [486.5, 230.9, 1], [458.4, 231.5, 2], [429.7, 172.6, 1], [454.8, 280.2, 2], [413.4, 187.1, 1], [434.0, 258.7, 1], [364.7, 167.9, 1], [347.8, 159.2, 1], [478.0, 476.3, 1], [454.9, 426.2, 1], [344.0, 256.1, 1], [393.5, 475.9, 1], [343.9, 405.4, 1], [291.4, 323.6, 1]]}, "Capricorno": {"l": [[[621.5, 219.0], [619.9, 275.5]], [[619.9, 275.5], [396.6, 411.5]], [[396.6, 411.5], [308.2, 435.0]], [[308.2, 435.0], [212.9, 469.0]], [[212.9, 469.0], [171.1, 472.7]], [[308.2, 435.0], [333.6, 565.4]], [[333.6, 565.4], [396.6, 411.5]], [[619.9, 275.5], [561.0, 553.4]], [[396.6, 411.5], [544.7, 600.0]]], "s": [[621.5, 219.0, 1], [619.9, 275.5, 2], [561.0, 553.4, 1], [544.7, 600.0, 1], [396.6, 411.5, 1], [308.2, 435.0, 1], [333.6, 565.4, 1], [212.9, 469.0, 1], [171.1, 472.7, 2]]}, "Acquario": {"l": [[[477.8, 286.2], [335.9, 237.5]], [[335.9, 237.5], [282.2, 266.4]], [[282.2, 266.4], [251.9, 252.7]], [[251.9, 252.7], [228.8, 259.6]], [[228.8, 259.6], [193.7, 381.2]], [[193.7, 381.2], [116.2, 424.4]], [[116.2, 424.4], [134.9, 592.1]], [[335.9, 237.5], [320.3, 354.0]], [[320.3, 354.0], [376.2, 432.8]], [[320.3, 354.0], [281.5, 406.3]], [[281.5, 406.3], [225.8, 464.0]], [[225.8, 464.0], [216.5, 500.5]], [[216.5, 500.5], [186.0, 593.4]], [[664.2, 313.1], [477.8, 286.2]]], "s": [[664.2, 313.1, 1], [477.8, 286.2, 2], [335.9, 237.5, 2], [376.2, 432.8, 1], [320.3, 354.0, 1], [282.2, 266.4, 1], [251.9, 252.7, 1], [281.5, 406.3, 1], [228.8, 259.6, 1], [225.8, 464.0, 1], [193.7, 381.2, 1], [216.5, 500.5, 1], [186.0, 593.4, 1], [116.2, 424.4, 1], [134.9, 592.1, 1]]}, "Pesci": {"l": [[[271.6, 139.7], [235.0, 252.1]], [[271.6, 139.7], [216.1, 209.9]], [[216.1, 209.9], [235.0, 252.1]], [[235.0, 252.1], [171.7, 386.2]], [[171.7, 386.2], [118.7, 474.4]], [[118.7, 474.4], [50.9, 568.3]], [[50.9, 568.3], [84.5, 562.1]], [[84.5, 562.1], [131.9, 528.2]], [[131.9, 528.2], [173.6, 519.1]], [[173.6, 519.1], [271.3, 494.4]], [[271.3, 494.4], [322.8, 502.3]], [[322.8, 502.3], [419.9, 487.7]], [[419.9, 487.7], [497.0, 504.1]], [[497.0, 504.1], [570.2, 519.4]], [[570.2, 519.4], [565.8, 576.7]], [[565.8, 576.7], [625.8, 583.3]], [[625.8, 583.3], [663.1, 551.0]], [[663.1, 551.0], [615.8, 505.9]], [[615.8, 505.9], [570.2, 519.4]]], "s": [[419.9, 487.7, 1], [322.8, 502.3, 1], [271.6, 139.7, 1], [271.3, 494.4, 1], [235.0, 252.1, 1], [216.1, 209.9, 1], [173.6, 519.1, 1], [171.7, 386.2, 1], [131.9, 528.2, 1], [118.7, 474.4, 1], [84.5, 562.1, 1], [50.9, 568.3, 1], [663.1, 551.0, 1], [625.8, 583.3, 1], [615.8, 505.9, 1], [570.2, 519.4, 1], [565.8, 576.7, 1], [497.0, 504.1, 1]]}}};
 const root=document.getElementById('cielo'),vv=root.querySelector('.vv');
 const rm=matchMedia('(prefers-reduced-motion: reduce)').matches;
 let m=2,d=14,gift=false;
